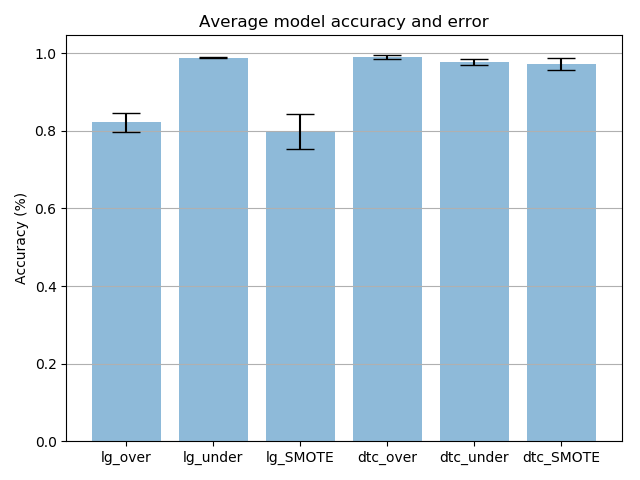
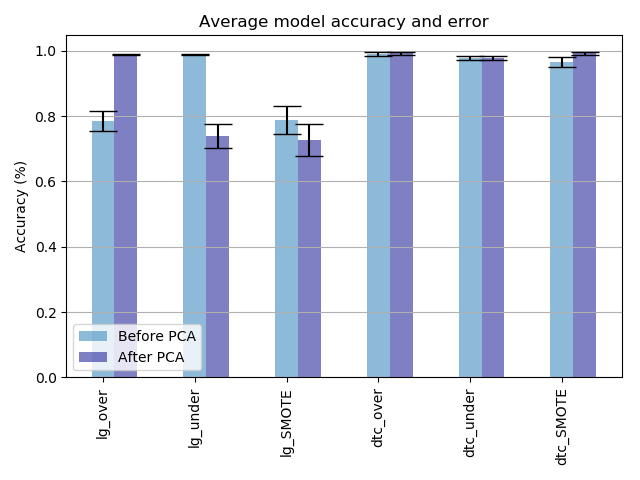
Improved ROC and accuracy plots

diff --git a/class_imbalance.py b/class_imbalance.py
@@ -784,11 +784,12 @@ class ClassImbalance:
 
         accuracies = [lg_over[0],lg_under[0], lg_SMOTE[0], dc_over[0], dc_under[0], dc_SMOTE[0]]
         accuracies_labels = ["lg_over","lg_under", "lg_SMOTE", "dtc_over", "dtc_under", "dtc_SMOTE"]
-        col = ["yellow", "m", "grey", "pink", "blue", "red", "black", "brown", "green", "cyan"]
-        seq = [1, 2, 3, 4, 5, 6, 7, 8, 9, 10]
 
-        means = []
-        std_dev = []
+        accuracies_PCA = [lg_under_PCA[0], lg_over_PCA[0], lg_SMOTE_PCA[0], dc_over_PCA[0], dc_under_PCA[0], dc_over_PCA[0]]
+        accuracies_labels_PCA = ["lg_under_PCA", "lg_over_PCA", "lg_SMOTE_PCA", "dtc_over_PCA", "dtc_under_PCA", "dtc_SMOTE_PCA"]
+
+        means, means_PCA = [], []
+        std_dev, std_dev_PCA = [], []
         x_axis = np.arange(len(accuracies))
 
         for i in range(len(accuracies)):
@@ -798,45 +799,29 @@ class ClassImbalance:
             means.append(mean)
             std_dev.append(std)
 
+        for i in range(len(accuracies_PCA)):
+            temp = np.array(accuracies_PCA[i])
+            mean = np.mean(temp)
+            std = np.std(temp)
+            means_PCA.append(mean)
+            std_dev_PCA.append(std)
+
        
+        width = 0.25
         fig, ax = plt.subplots()
-        ax.bar(x_axis, means, yerr=std_dev, align='center', alpha=0.5, ecolor='black', capsize=10)
+        plt1 = ax.bar(x_axis, means, width,  yerr=std_dev, align='center', alpha=0.5, ecolor='black', capsize=10)
+        plt2 = ax.bar(x_axis+width, means_PCA, width, yerr=std_dev_PCA, align='center', alpha=0.5, ecolor='black', capsize=10, color="darkblue")
         ax.set_ylabel("Accuracy (%)")
         ax.set_xticks(x_axis)
         ax.set_xticklabels(accuracies_labels)
         ax.set_title("Average model accuracy and error")
         ax.yaxis.grid(True)
-
+        ax.legend((plt1[0], plt2[0]), ("Before PCA", "After PCA"))
+        plt.xticks(rotation=90)
         plt.tight_layout()
         plt.savefig("Model accuracy for Abalone - Class Imbalance")
         plt.show()
 
-
-        # fig, ax = plt.subplots()
-        # for i in range(4):
-        #     ax.plot(seq, accuracies[i], color=col[i], label=accuracies_labels[i])
-        
-        # plt.ylabel("Accuracy (%)")
-        # plt.title("Model accuracies")
-        # plt.xticks(seq)
-        # plt.legend()
-        # plt.savefig("Model accuracies for undersampling and oversampling unsing Logistic Reg and Decision tree.jpeg")    
-        # plt.show()
-
-        accuracies = [lg_under_PCA[0], lg_over_PCA[0], lg_SMOTE_PCA[0], dc_over_PCA[0], dc_under_PCA[0], dc_over_PCA[0]]
-        accuracies_labels = ["lg_under_PCA", "lg_over_PCA", "lg_SMOTE_PCA", "dtc_over_PCA", "dtc_under_PCA", "dtc_SMOTE_PCA"]
-        col = ["yellow", "m", "grey", "pink", "blue", "red", "black", "brown", "green", "cyan"]
-        
-        fig, ax = plt.subplots()
-        for i in range(len(accuracies) - 1):
-            ax.plot(seq, accuracies[i], color=col[i], label=accuracies_labels[i])
-        
-        plt.ylabel("Accuracy (%)")
-        plt.title("Model accuracies with PCA")
-        plt.xticks(seq)
-        plt.legend()
-        plt.savefig("Model accuracies for undersampling and oversampling unsing Logistic Reg and Decision tree with PCA.jpeg")
-        plt.show()
 
         true_labels = [lg_over[1],lg_under[1], lg_SMOTE[1], dc_over[1], dc_under[1], dc_SMOTE[1]]
         predictions = [lg_over[2],lg_under[2], lg_SMOTE_PCA[2], dc_over[2], dc_under[2], dc_SMOTE_PCA[2]]
